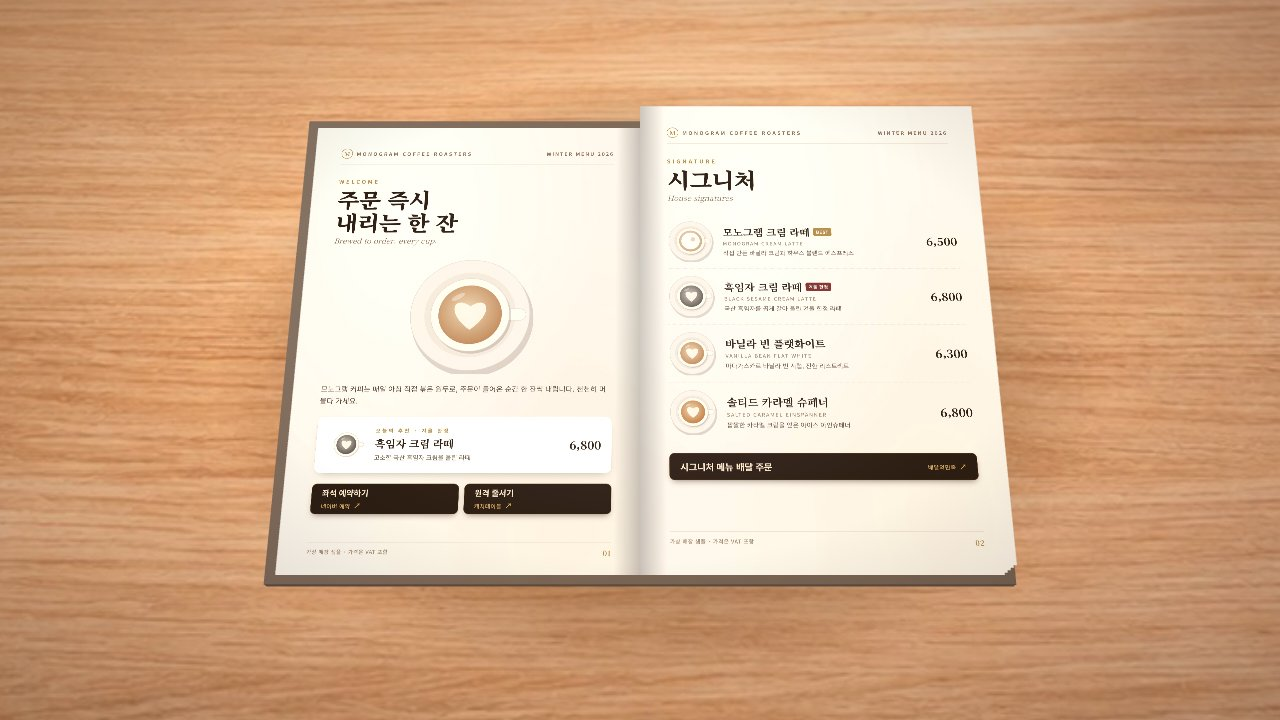
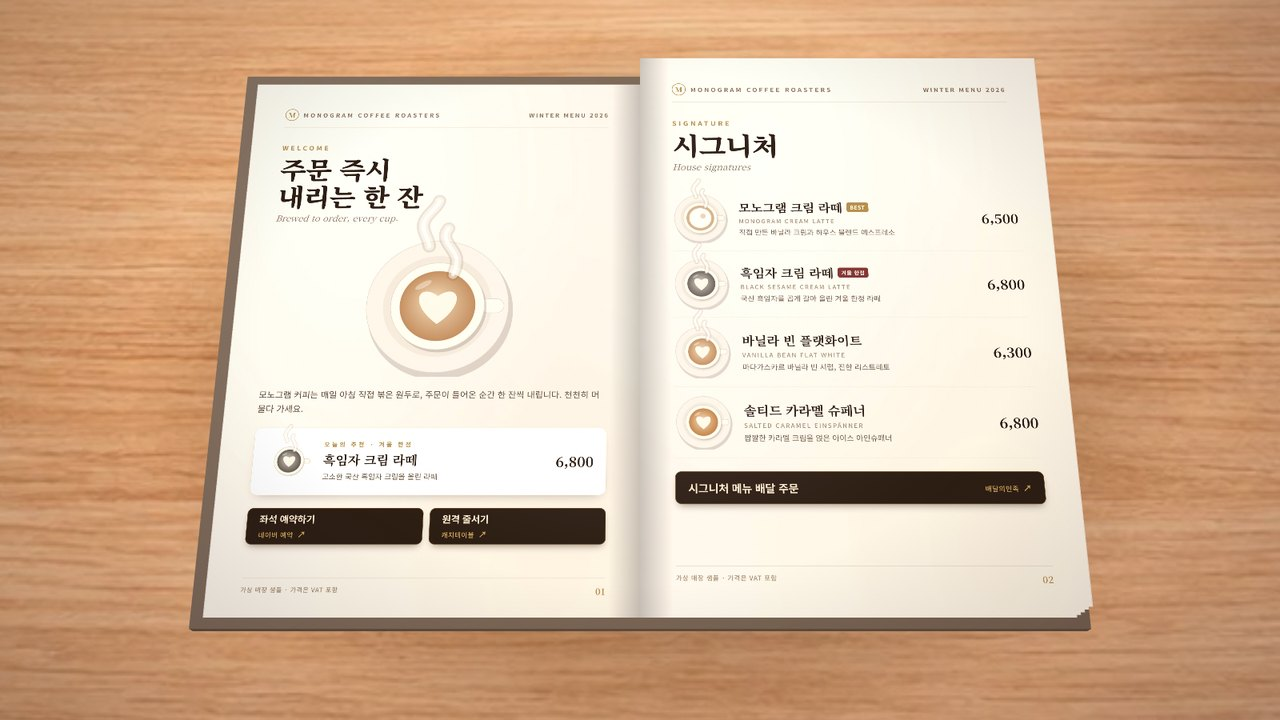
QR 메뉴판: 커피 채워짐·김 모션 추가, 썸네일 교체
Claude-Session: https://claude.ai/code/session_0166zEMd4gNxjCb83AFhS7w1

diff --git a/samples/menu/index.html b/samples/menu/index.html
@@ -91,7 +91,7 @@ canvas{display:block}
 <script src="https://cdnjs.cloudflare.com/ajax/libs/three.js/r128/three.min.js"></script>
 <script src="https://cdnjs.cloudflare.com/ajax/libs/qrcodejs/1.0.0/qrcode.min.js"></script>
 <script>
-const BOOK={"title": "모노그램 커피 겨울 메뉴", "pageTitle": "모노그램 커피 QR 3D 메뉴판 · LCO Pagecraft 샘플", "brandSub": "QR 3D 메뉴판 · 샘플", "share": "https://lcopagecraft.com/samples/menu/", "TW": 1500, "TH": 2100, "ink": "#2B1D14", "accent": "#C9A35C", "live": [], "imgs": ["pages/p01.jpg", "pages/p02.jpg", "pages/p03.jpg", "pages/p04.jpg", "pages/p05.jpg", "pages/p06.jpg", "pages/p07.jpg", "pages/p08.jpg", "pages/p09.jpg", "pages/p10.jpg"], "titles": ["환영합니다", "시그니처", "에스프레소", "핸드드립 · 티", "논커피 · 에이드", "케이크 · 디저트", "베이커리 · 브런치", "세트 메뉴", "원두 · 선물", "매장 안내"], "cover": {"sub": "가상 카페 · QR 3D 메뉴판 샘플"}, "scenes": {}, "back": {"lines": ["매장·가격·링크는", "설명용 가상 정보입니다"], "notes": []}, "links": {"1": [{"x": 120, "y": 1712, "w": 619, "h": 132, "url": "https://booking.naver.com/", "label": "네이버 예약"}, {"x": 761, "y": 1712, "w": 619, "h": 132, "url": "https://app.catchtable.co.kr/", "label": "캐치테이블"}], "2": [{"x": 120, "y": 1634, "w": 1260, "h": 116, "url": "https://www.baemin.com/", "label": "배달의민족"}], "3": [{"x": 120, "y": 1863, "w": 1260, "h": 116, "url": "https://www.coupangeats.com/", "label": "쿠팡이츠"}], "6": [{"x": 120, "y": 1634, "w": 1260, "h": 116, "url": "https://booking.naver.com/", "label": "네이버 예약"}], "8": [{"x": 120, "y": 1466, "w": 1260, "h": 116, "url": "https://app.catchtable.co.kr/", "label": "캐치테이블"}], "9": [{"x": 120, "y": 1634, "w": 1260, "h": 116, "url": "https://smartstore.naver.com/", "label": "스마트스토어"}], "10": [{"x": 120, "y": 912, "w": 619, "h": 132, "url": "https://booking.naver.com/", "label": "네이버 예약"}, {"x": 761, "y": 912, "w": 619, "h": 132, "url": "https://app.catchtable.co.kr/", "label": "캐치테이블"}, {"x": 120, "y": 1066, "w": 619, "h": 132, "url": "https://www.baemin.com/", "label": "배달의민족"}, {"x": 761, "y": 1066, "w": 619, "h": 132, "url": "https://www.coupangeats.com/", "label": "쿠팡이츠"}, {"x": 120, "y": 1220, "w": 619, "h": 132, "url": "https://www.instagram.com/", "label": "인스타그램"}, {"x": 761, "y": 1220, "w": 619, "h": 132, "url": "https://map.naver.com/", "label": "네이버 지도"}]}};
+const BOOK={"title": "모노그램 커피 겨울 메뉴", "pageTitle": "모노그램 커피 QR 3D 메뉴판 · LCO Pagecraft 샘플", "brandSub": "QR 3D 메뉴판 · 샘플", "share": "https://lcopagecraft.com/samples/menu/", "TW": 1500, "TH": 2100, "ink": "#2B1D14", "accent": "#C9A35C", "live": [1, 2, 4, 5, 8], "imgs": ["pages/p01.jpg", "pages/p02.jpg", "pages/p03.jpg", "pages/p04.jpg", "pages/p05.jpg", "pages/p06.jpg", "pages/p07.jpg", "pages/p08.jpg", "pages/p09.jpg", "pages/p10.jpg"], "titles": ["환영합니다", "시그니처", "에스프레소", "핸드드립 · 티", "논커피 · 에이드", "케이크 · 디저트", "베이커리 · 브런치", "세트 메뉴", "원두 · 선물", "매장 안내"], "cover": {"sub": "가상 카페 · QR 3D 메뉴판 샘플"}, "scenes": {}, "back": {"lines": ["매장·가격·링크는", "설명용 가상 정보입니다"], "notes": []}, "links": {"1": [{"x": 120, "y": 1712, "w": 619, "h": 132, "url": "https://booking.naver.com/", "label": "네이버 예약"}, {"x": 761, "y": 1712, "w": 619, "h": 132, "url": "https://app.catchtable.co.kr/", "label": "캐치테이블"}], "2": [{"x": 120, "y": 1634, "w": 1260, "h": 116, "url": "https://www.baemin.com/", "label": "배달의민족"}], "3": [{"x": 120, "y": 1863, "w": 1260, "h": 116, "url": "https://www.coupangeats.com/", "label": "쿠팡이츠"}], "6": [{"x": 120, "y": 1634, "w": 1260, "h": 116, "url": "https://booking.naver.com/", "label": "네이버 예약"}], "8": [{"x": 120, "y": 1466, "w": 1260, "h": 116, "url": "https://app.catchtable.co.kr/", "label": "캐치테이블"}], "9": [{"x": 120, "y": 1634, "w": 1260, "h": 116, "url": "https://smartstore.naver.com/", "label": "스마트스토어"}], "10": [{"x": 120, "y": 912, "w": 619, "h": 132, "url": "https://booking.naver.com/", "label": "네이버 예약"}, {"x": 761, "y": 912, "w": 619, "h": 132, "url": "https://app.catchtable.co.kr/", "label": "캐치테이블"}, {"x": 120, "y": 1066, "w": 619, "h": 132, "url": "https://www.baemin.com/", "label": "배달의민족"}, {"x": 761, "y": 1066, "w": 619, "h": 132, "url": "https://www.coupangeats.com/", "label": "쿠팡이츠"}, {"x": 120, "y": 1220, "w": 619, "h": 132, "url": "https://www.instagram.com/", "label": "인스타그램"}, {"x": 761, "y": 1220, "w": 619, "h": 132, "url": "https://map.naver.com/", "label": "네이버 지도"}]}, "cups": {"1": [{"x": 750, "y": 941, "s": 560, "k": "latte", "h": 1}, {"x": 250, "y": 1540, "s": 170, "k": "sesame", "h": 1}], "2": [{"x": 220, "y": 674, "s": 200, "k": "cream", "h": 1}, {"x": 220, "y": 935, "s": 200, "k": "sesame", "h": 1}, {"x": 220, "y": 1196, "s": 200, "k": "latte", "h": 1}, {"x": 220, "y": 1457, "s": 200, "k": "caramel", "h": 0}], "4": [{"x": 220, "y": 724, "s": 200, "k": "black", "h": 1}, {"x": 220, "y": 985, "s": 200, "k": "black", "h": 1}, {"x": 220, "y": 1340, "s": 200, "k": "tea", "h": 1}, {"x": 220, "y": 1601, "s": 200, "k": "caramel", "h": 1}], "5": [{"x": 220, "y": 674, "s": 200, "k": "matcha", "h": 1}, {"x": 220, "y": 935, "s": 200, "k": "choco", "h": 1}, {"x": 220, "y": 1196, "s": 200, "k": "berry", "h": 0}], "8": [{"x": 260, "y": 680, "s": 190, "k": "black", "h": 1}, {"x": 260, "y": 982, "s": 190, "k": "latte", "h": 1}]}};
 
 const SHARE_URL = BOOK.share || location.href.split("?")[0].split("#")[0];
 const TITLES = BOOK.titles.slice(); if(TITLES.length%2) TITLES.push("");
@@ -114,6 +114,39 @@ function flipSound(){ if(!soundOn) return; const a=ac(); if(!a) return;
   s.connect(f); f.connect(g); g.connect(a.destination); s.start(t); s.stop(t+.45);}catch(e){} }
 document.getElementById("bSnd").onclick=e=>{soundOn=!soundOn; e.currentTarget.style.opacity=soundOn?1:.5;};
 
+
+/* ---------- coffee motion: the cup fills, latte art floats up, hot drinks steam ---------- */
+const CREMA={latte:["#E9D3B5","#B98455"],black:["#6B4226","#2A170C"],sesame:["#CFC6BC","#5B5550"],matcha:["#C9D9A3","#7E9A4C"],choco:["#A0765A","#4A2C1C"],cream:["#F4EBDD","#C8A27A"],tea:["#D9A066","#A35E26"],berry:["#F3C6CC","#D0717F"],caramel:["#EBD2AE","#B9783E"]};
+const HEART={latte:1,sesame:1,matcha:1,berry:1,caramel:1};
+function drawCups(g,list,t){ list.forEach((c,i)=>{ const s=c.s, cx=c.x, cy=c.y, R=s*.25, d=.25+i*.18;
+  const p=eO(cl((t-d)/1.4)); if(p>0){ const col=CREMA[c.k]||CREMA.latte;
+    // liquid spreads out from where the coffee is poured, with a darker ring at the moving edge
+    const ox=cx+(1-p)*R*.35, oy=cy-(1-p)*R*.2, r=R*p;
+    g.save(); g.beginPath(); g.arc(cx,cy,R,0,6.2832); g.clip();
+    const gr=g.createRadialGradient(cx-R*.12,cy-R*.15,R*.05,cx,cy,R*1.05); gr.addColorStop(0,col[0]); gr.addColorStop(1,col[1]);
+    g.beginPath(); g.arc(ox,oy,r,0,6.2832); g.fillStyle=gr; g.fill();
+    if(p<1){ g.lineWidth=R*.08*(1-p); g.strokeStyle="rgba(60,30,10,.25)"; g.stroke(); }
+    // pour point while filling
+    if(p<.95){ g.beginPath(); g.arc(cx+R*.35*(1-p)*0+R*.0+ (ox-cx), oy, R*.12*(1-p*.6),0,6.2832); g.fillStyle=col[1]; g.globalAlpha=.7*(1-p); g.fill(); g.globalAlpha=1; }
+    // latte art
+    const a=eO(cl((t-d-1.1)/.9));
+    if(a>0&&HEART[c.k]){ g.save(); g.translate(cx,cy+R*.05*(1-a)); g.scale(.6+.4*a,.6+.4*a); g.globalAlpha=a*.95; g.fillStyle="#FFF8EE";
+      const k=s; g.beginPath(); g.moveTo(0,k*.13); g.bezierCurveTo(-k*.2,-k*.02,-k*.13,-k*.17,0,-k*.07); g.bezierCurveTo(k*.13,-k*.17,k*.2,-k*.02,0,k*.13); g.fill(); g.restore(); }
+    if(a>0&&c.k==="cream"){ g.globalAlpha=a; g.beginPath(); g.arc(cx,cy,s*.2*(.5+.5*a),0,6.2832); g.fillStyle="#FFFDF8"; g.fill(); g.beginPath(); g.arc(cx+s*.05,cy-s*.04,s*.05,0,6.2832); g.fillStyle="rgba(200,162,122,.5)"; g.fill(); g.globalAlpha=1; }
+    g.restore();
+    // shine
+    if(p>=1){ g.save(); g.globalAlpha=.35*a; g.fillStyle="#fff"; g.translate(cx-s*.1,cy-s*.15); g.rotate(-.52); g.beginPath(); g.ellipse(0,0,s*.06,s*.02,0,0,6.2832); g.fill(); g.restore(); }
+  }
+  // steam: soft wisps that rise off hot drinks and fade, on a loop
+  if(c.h){ const on=cl((t-d-1.2)/1.2); if(on<=0) return;
+    g.save(); g.lineCap="round";
+    for(let j=0;j<3;j++){ const ph=((t*.32)+j/3)%1, rise=ph*s*.62, al=Math.sin(ph*Math.PI)*.75*on, x0=cx+(j-1)*s*.085, y0=cy-s*.02-rise, L=s*.34, wob=s*.045;
+      const path=()=>{ g.beginPath(); for(let q=0;q<=16;q++){ const u=q/16, y=y0-u*L, x=x0+Math.sin(u*5.2+t*1.7+j*2.1)*wob*(.4+u); if(q===0) g.moveTo(x,y); else g.lineTo(x,y);} };
+      path(); g.strokeStyle=`rgba(110,78,52,${al*.24})`; g.lineWidth=s*.09; g.stroke();
+      path(); g.strokeStyle=`rgba(255,255,255,${al*.75})`; g.lineWidth=s*.062; g.stroke();
+      path(); g.strokeStyle=`rgba(255,255,255,${al})`; g.lineWidth=s*.026; g.stroke(); }
+    g.restore(); }
+ }); }
 /* ---------- covers ---------- */
 let LOGO=null, LOGOW=null;
 function whiteLogo(img){const c=document.createElement("canvas");c.width=img.width;c.height=img.height;const g=c.getContext("2d");g.drawImage(img,0,0);g.globalCompositeOperation="source-in";g.fillStyle="#fff";g.fillRect(0,0,c.width,c.height);return c;}
@@ -327,7 +360,7 @@ function loop(now){
   leaves.forEach(L=>{ if(L.p!==L.to||L._force){ const t=Math.min(1,Math.max(0,(now-L.t0-L.delay)/L.dur)); L.p = t>=1?L.to : L.from+(L.to-L.from)*ease(t); shapeLeaf(L,L.p); L._force=false; } });
   stackLayout();
   for(let k=1;k<=NP;k++){ if(!FACE[k]||FACE[k].st) continue; const el=(now-anim[k])/1000, live=(BOOK.live||[]).includes(k)&&curF===Math.ceil(k/2);
-    if((el>-2&&el<3.4)||live){ const tt=Math.max(0,el); if(tt!==FACE[k].lastT) drawFace(k,live&&el>3.4?el:tt); } }
+    if((el>-2&&el<3.4)||live){ const tt=Math.max(0,el); if(tt!==FACE[k].lastT&&(el<3.4||now-(FACE[k].lw||0)>45)){ FACE[k].lw=now; drawFace(k,live&&el>3.4?el:tt); } } }
   camTarget(now);
   const kk=1-Math.exp(-dt*3.6); for(const key in cam) cam[key]+=(camT[key]-cam[key])*kk;
   zoom+=(zoomT-zoom)*.15;
@@ -471,6 +504,8 @@ document.getElementById("vid").addEventListener("click",e=>{if(e.target.id==="vi
   const easeA=x=>{x=x<0?0:x>1?1:x;return 1-Math.pow(1-x,3);};
   P=[]; Object.keys(ANIM).forEach(k=>{ if(!AB[k]||!ACH[k]) return; P[k-1]=(g,t)=>{ g.drawImage(AB[k],0,0,TW,TH); ANIM[k].forEach((r,i)=>{ const p=easeA((t-.35-r.d-i*.12)/1.2); if(p<=0) return; g.save(); g.beginPath();
     if(r.dir==='up') g.rect(r.x-6,r.y+r.h*(1-p)-6,r.w+12,r.h*p+12); else g.rect(r.x-6,r.y-6,r.w*p+12,r.h+12); g.clip(); g.drawImage(ACH[k],0,0,TW,TH); g.restore(); }); }; });
+  const CB={}; await Promise.all(Object.keys(BOOK.cups||{}).map(async k=>{CB[k]=await ldA("anim/b"+String(k).padStart(2,"0")+".jpg");}));
+  Object.keys(CB).forEach(k=>{ if(!CB[k]) return; P[k-1]=(g,t)=>{ g.drawImage(CB[k],0,0,TW,TH); drawCups(g,BOOK.cups[k],t); }; });
   makeFace(0,IMX[0]||drawCover()); for(let k=1;k<=NP;k++){ if(P[k-1]) makeFace(k); else makeFace(k, IM[k-1]||blankPage()); } makeFace(LAST,IMX[1]||drawBack());
   buildLeaves();
   const q=new URLSearchParams(location.search).get("s");
